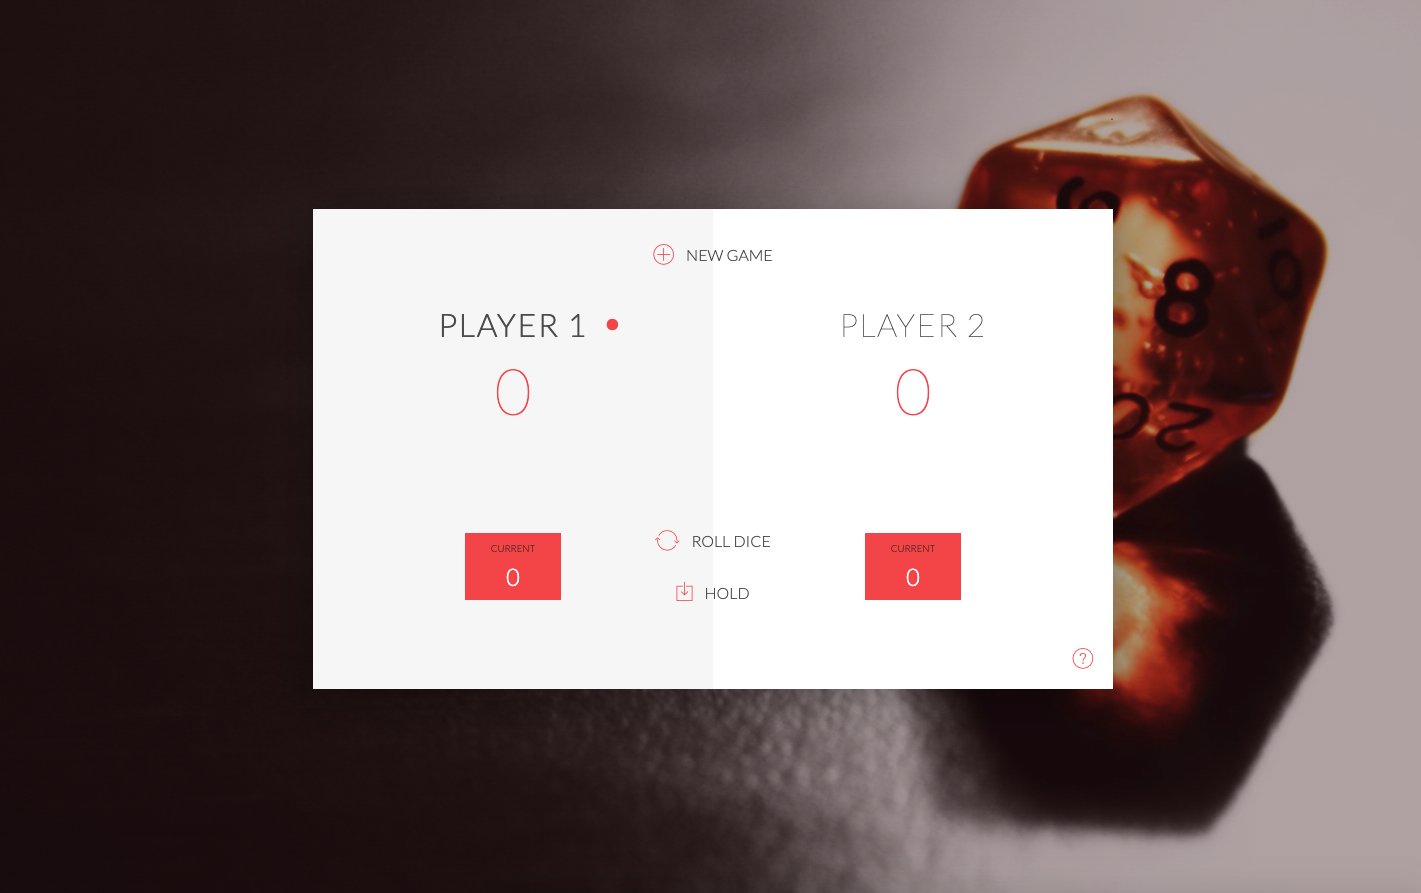
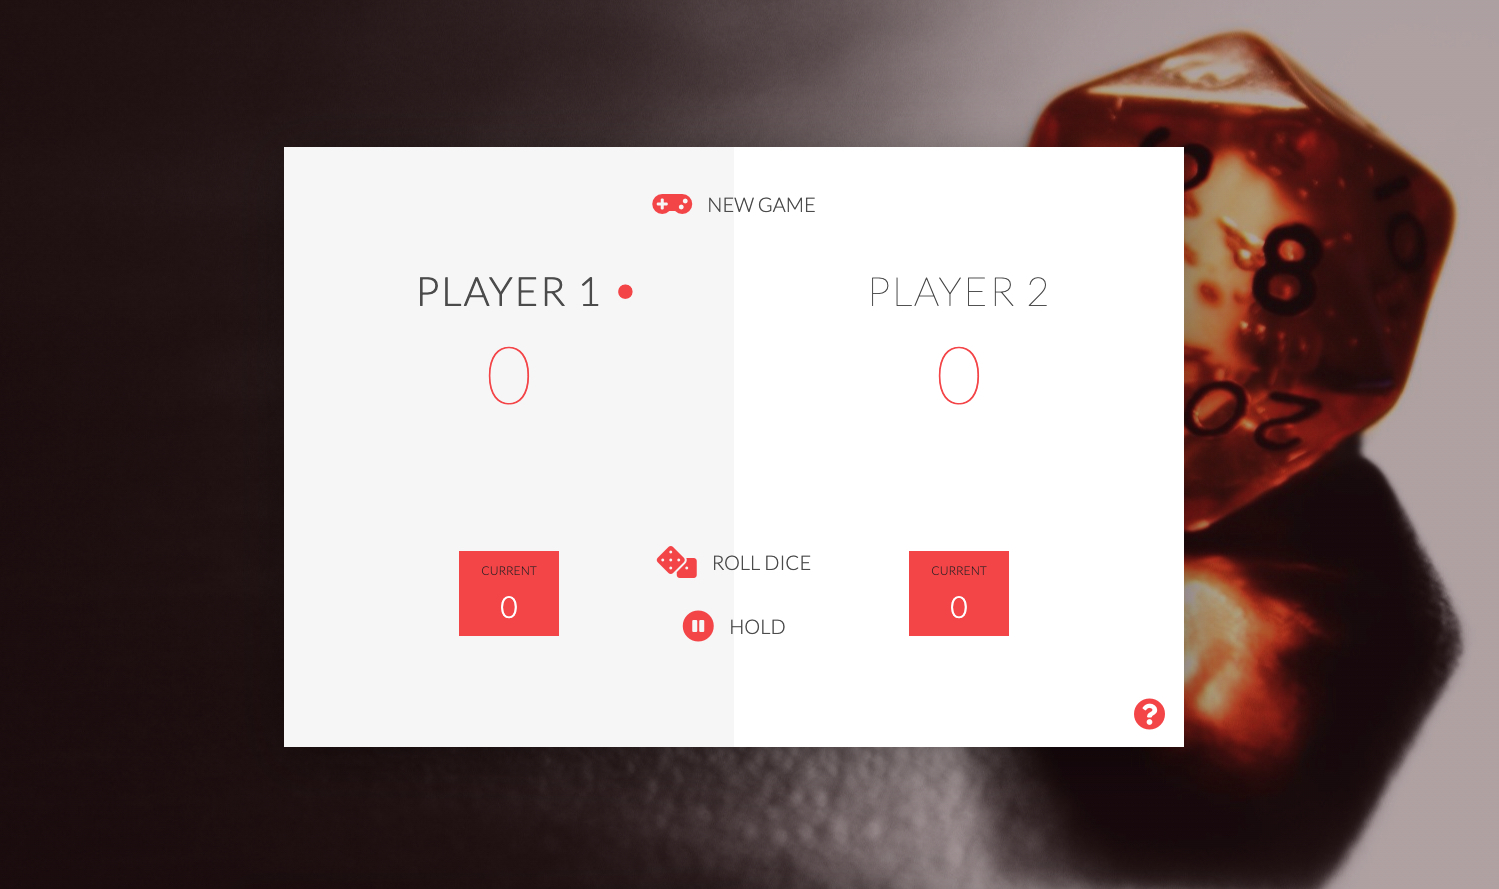
change UI

diff --git a/style.css b/style.css
@@ -139,7 +139,7 @@ i {
 .btn-roll { top: 403px;}
 .btn-hold { top: 467px;}
 .btn-help {
-    top: 550px;
+    top: 555px;
     left: 97%;
 }
 
